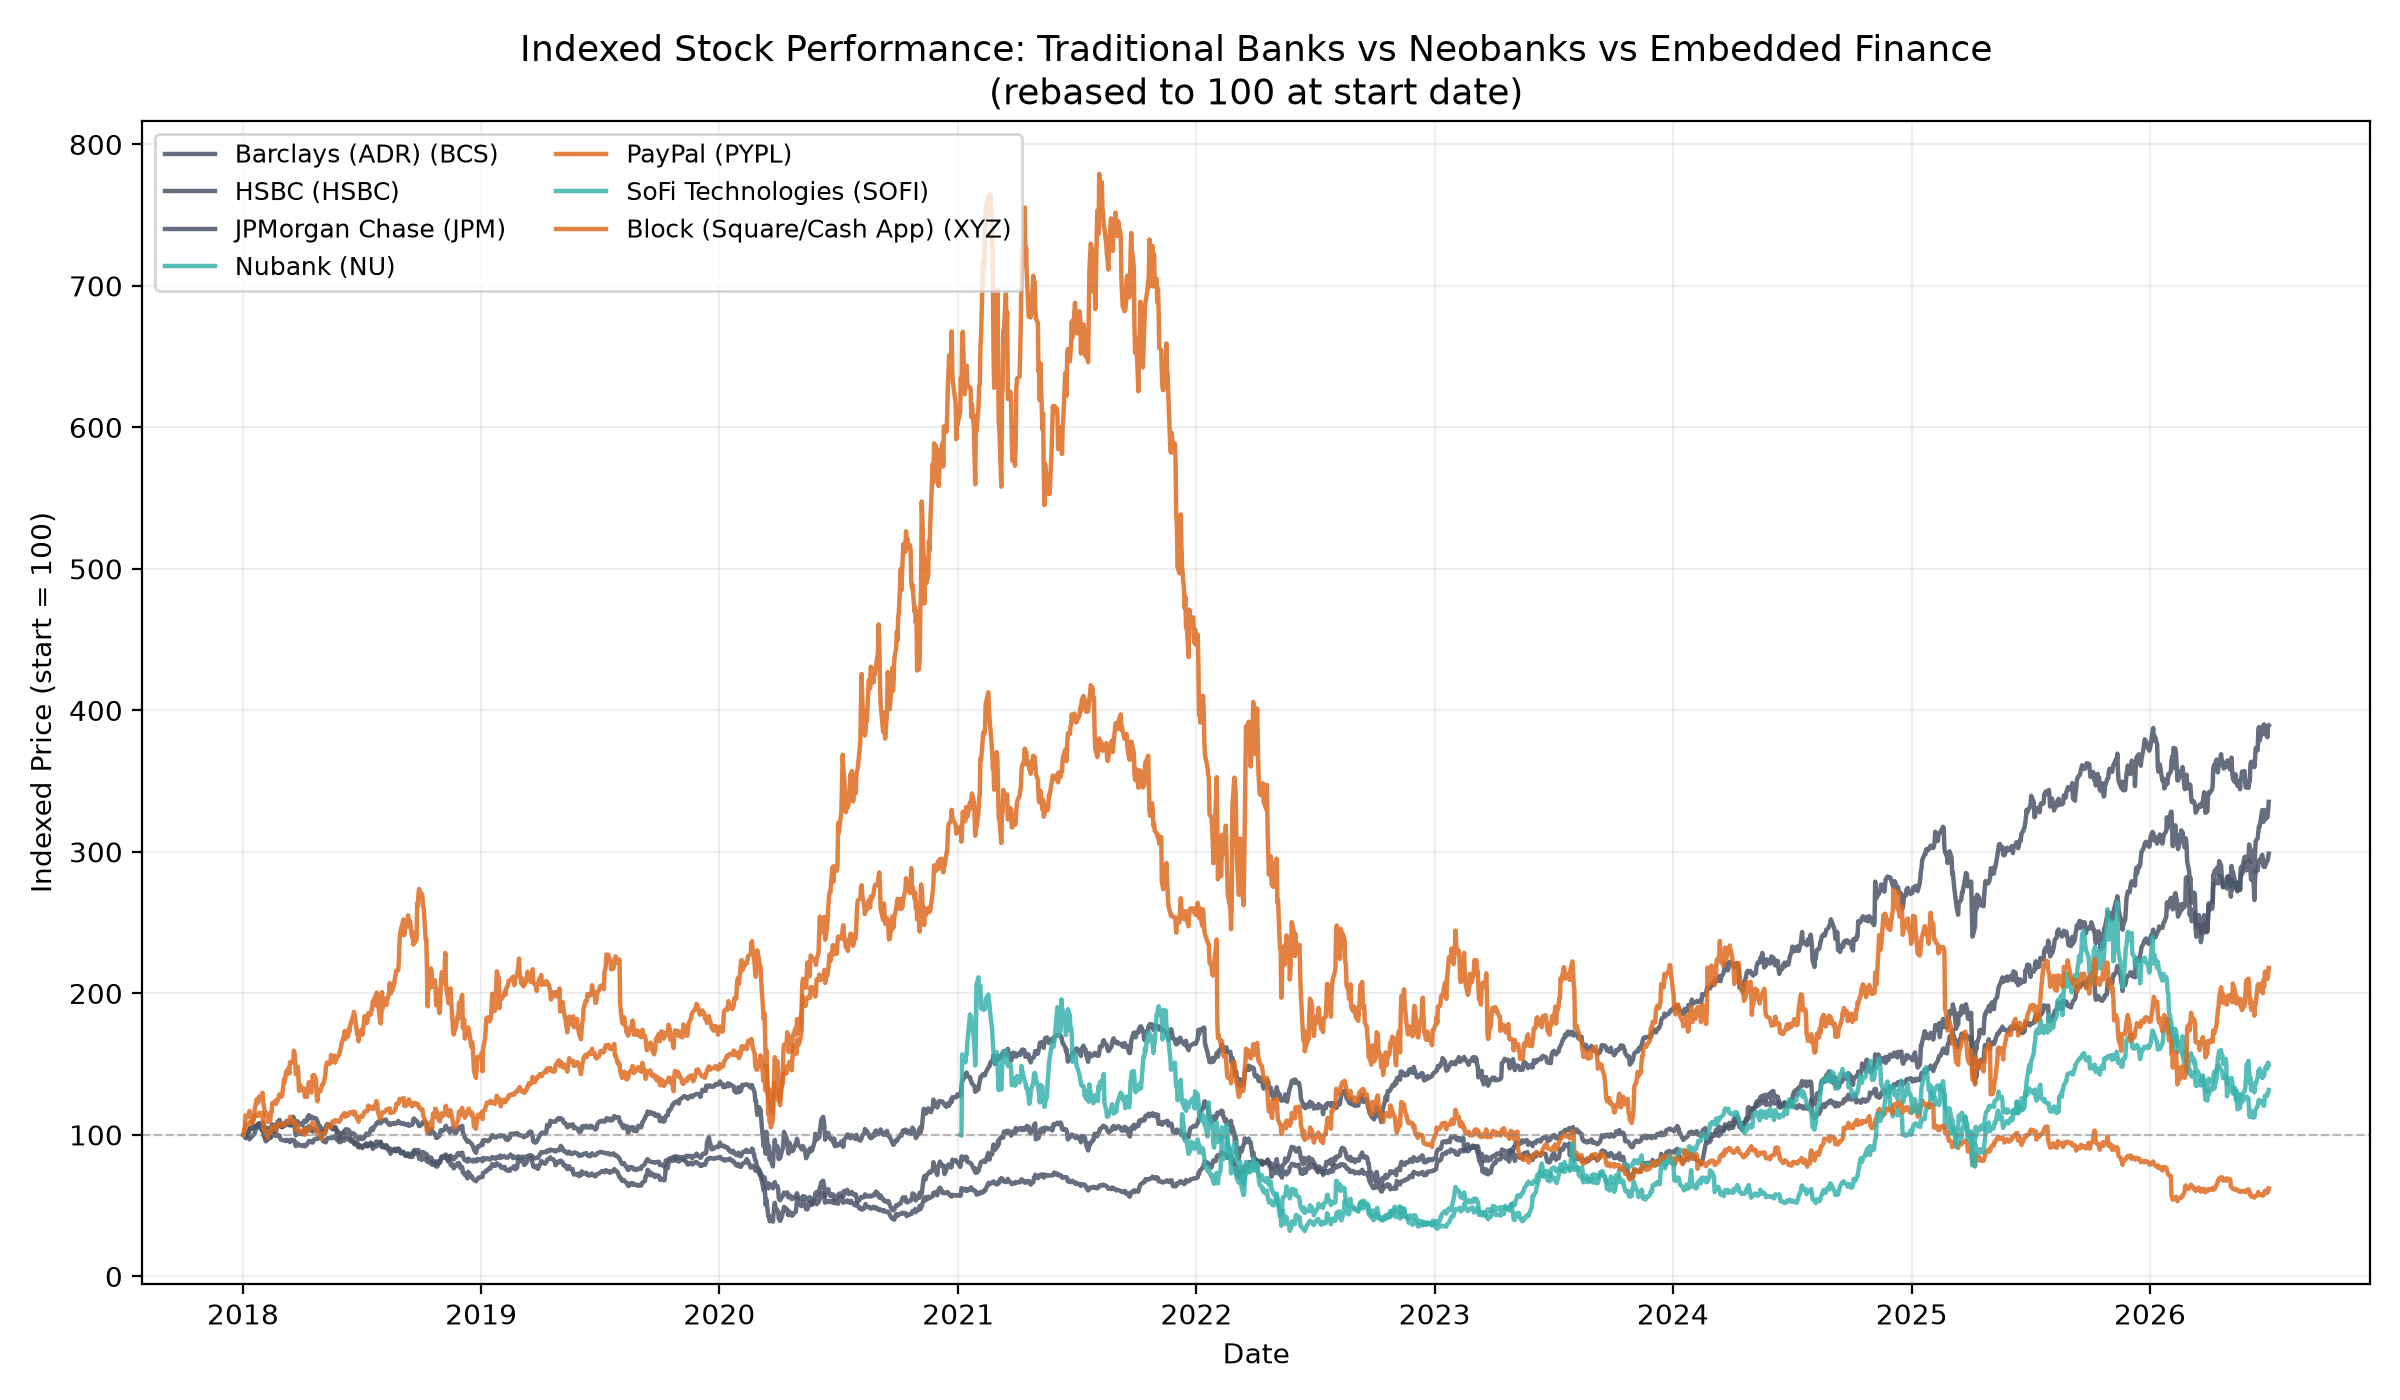
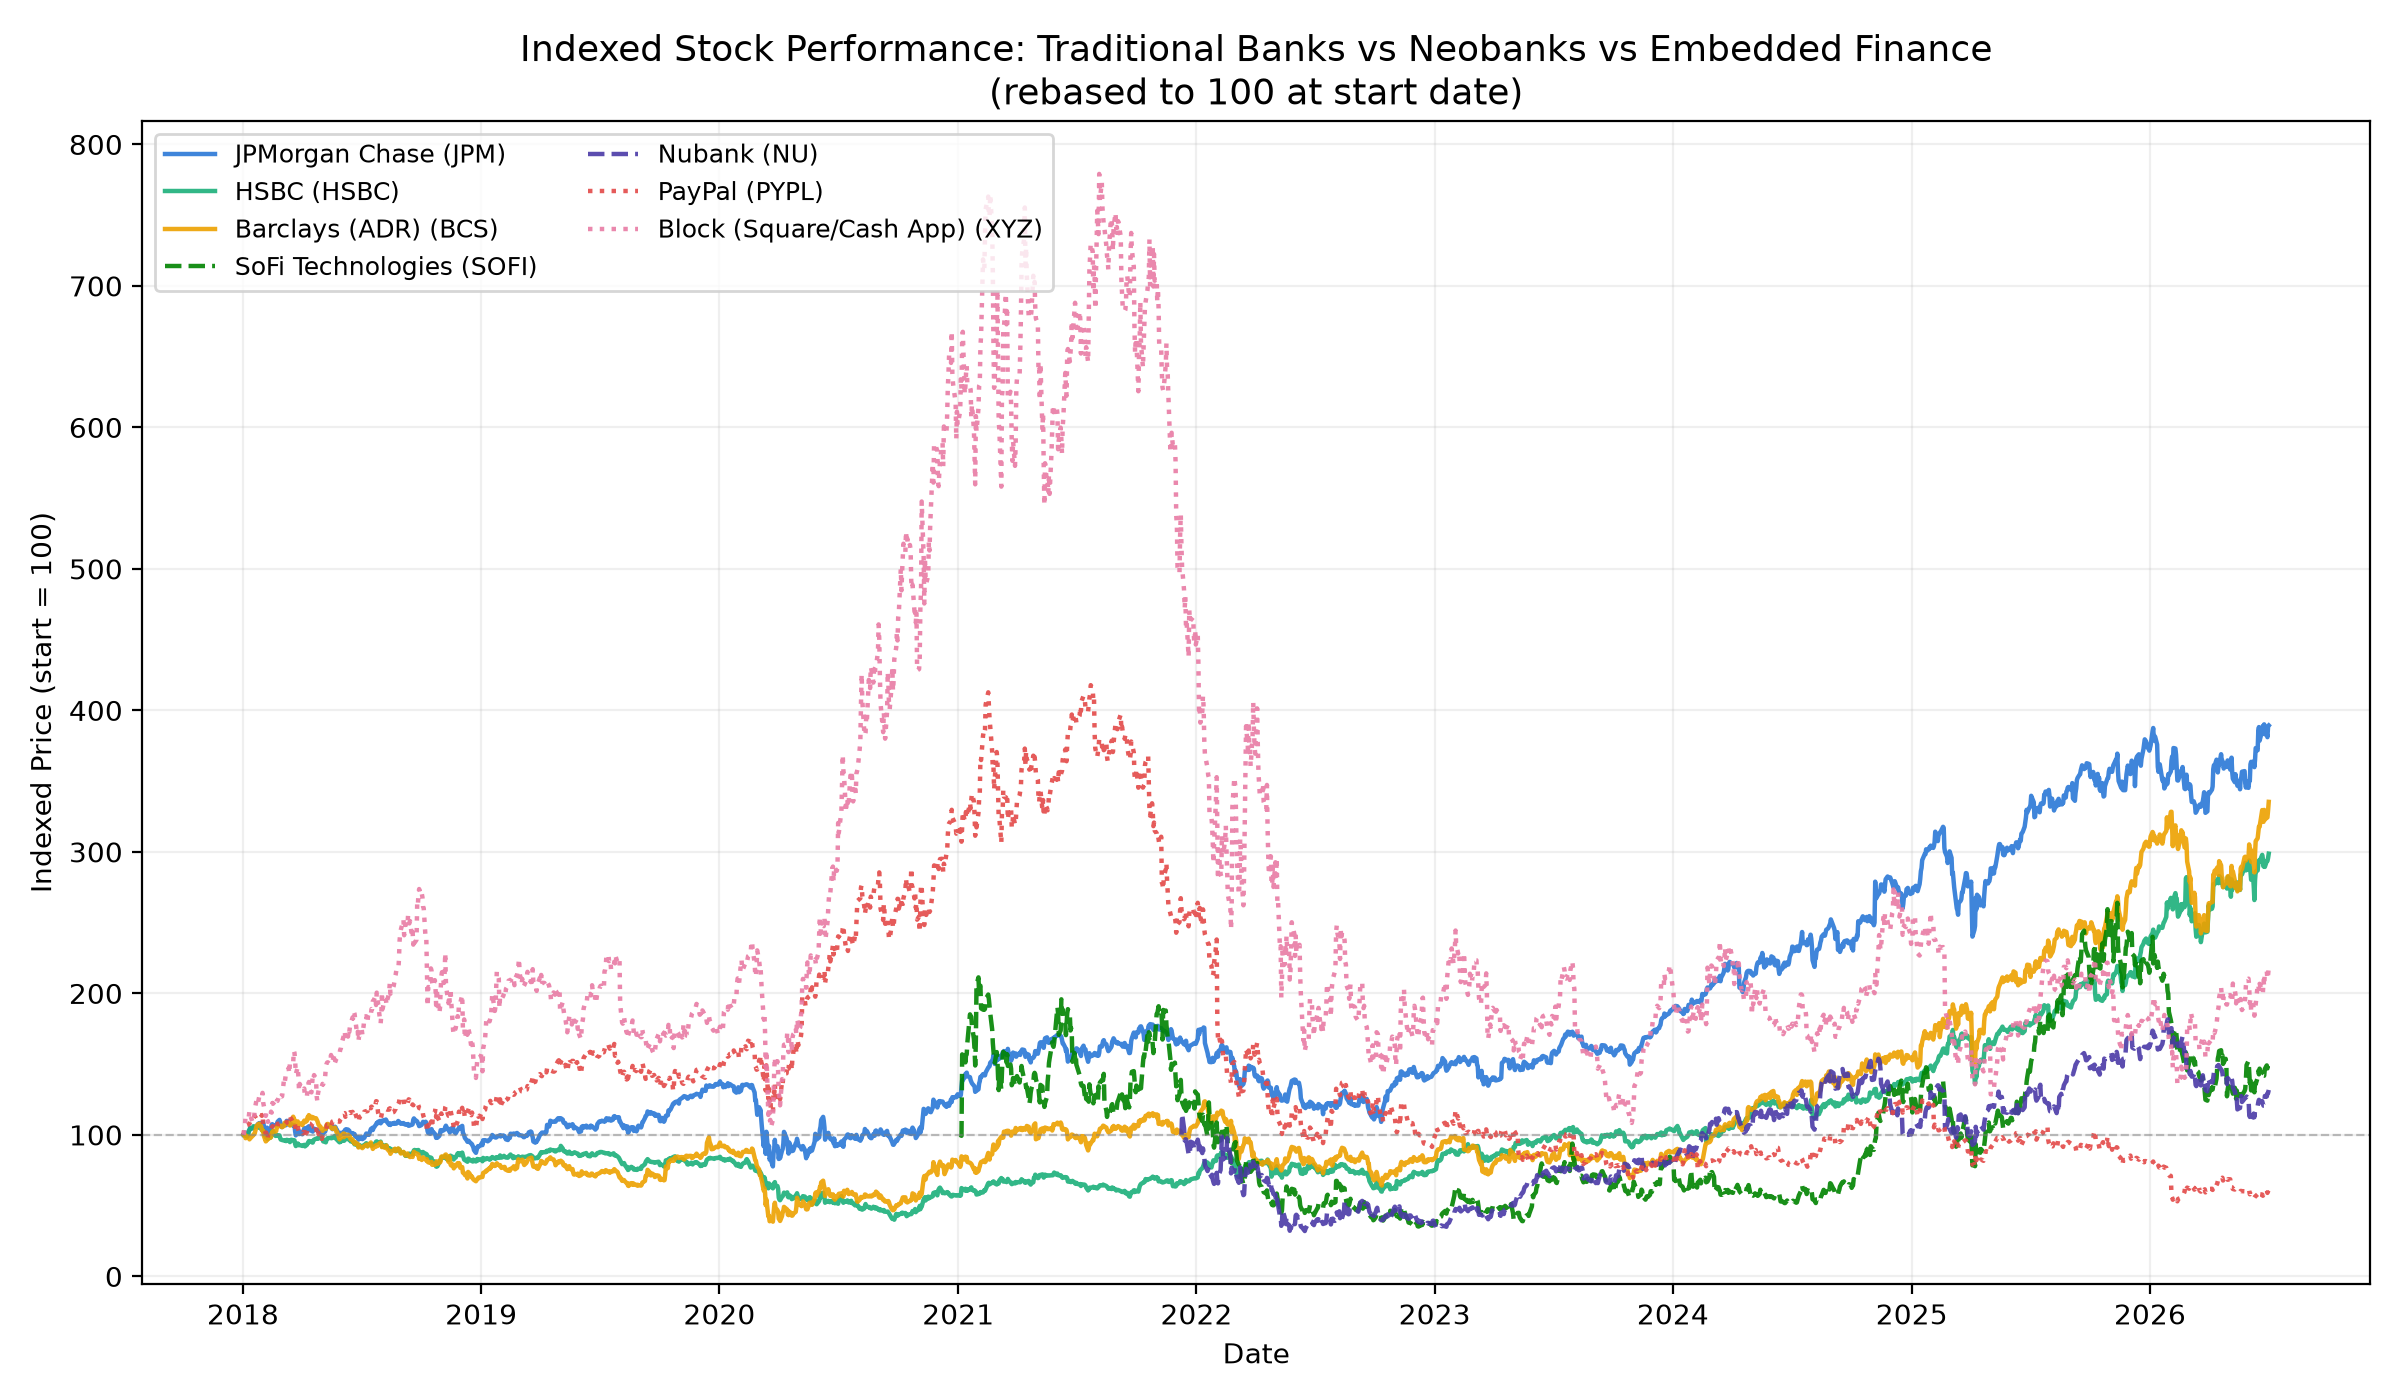
fix: different colour for each different company

diff --git a/collect_market_data.py b/collect_market_data.py
@@ -141,22 +141,31 @@ def build_indexed_performance(prices: pd.DataFrame) -> pd.DataFrame:
 # ---------------------------------------------------------------------------
 
 def plot_indexed_performance(indexed_df: pd.DataFrame, out_path: str):
-    category_colors = {
-        "traditional_bank": "#4A5568",   # slate grey
-        "neobank": "#38B2AC",            # teal
-        "embedded_finance": "#DD6B20",   # orange
-    }
+    # One hue per company (not per category) -- 7 tickers need 7 distinct
+    # identities, so 3 category colors shared across them made same-category
+    # companies indistinguishable. Colors are the validated CVD-safe
+    # categorical palette (see dataviz skill), assigned in the fixed order
+    # below so no two companies share a hue; linestyle still groups by
+    # category as a secondary cue.
+    palette = ["#2a78d6", "#1baf7a", "#eda100", "#008300", "#4a3aa7", "#e34948", "#e87ba4"]
+    ticker_order = [sym for tickers in TICKERS.values() for sym in tickers]
+    ticker_colors = dict(zip(ticker_order, palette))
+    category_linestyle = {"traditional_bank": "-", "neobank": "--", "embedded_finance": ":"}
 
     fig, ax = plt.subplots(figsize=(12, 7))
 
-    for ticker, group in indexed_df.groupby("ticker"):
+    for ticker in ticker_order:
+        group = indexed_df[indexed_df["ticker"] == ticker]
+        if group.empty:
+            continue
         category = group["category"].iloc[0]
         name = group["name"].iloc[0]
         ax.plot(
             group["Date"], group["indexed"],
             label=f"{name} ({ticker})",
-            color=category_colors.get(category, "black"),
-            alpha=0.85,
+            color=ticker_colors[ticker],
+            linestyle=category_linestyle.get(category, "-"),
+            alpha=0.9,
             linewidth=1.6,
         )
 